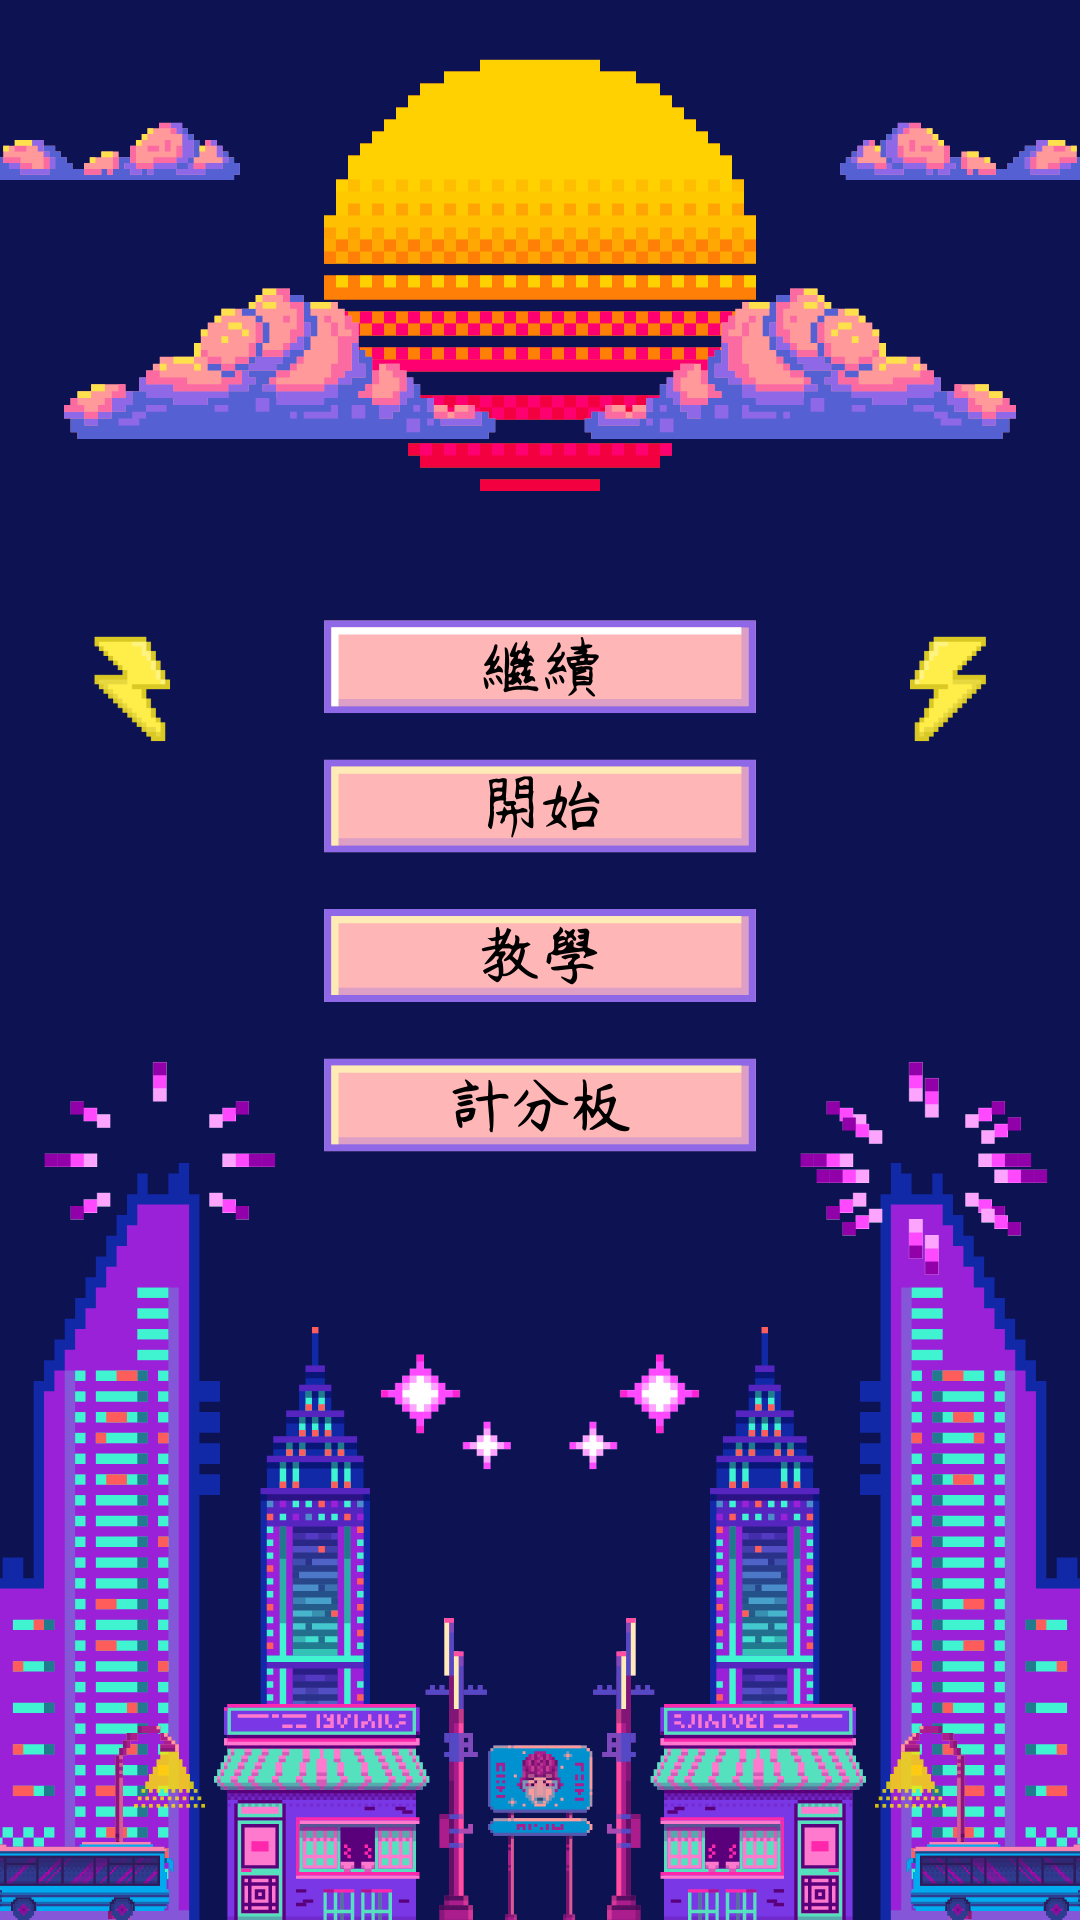
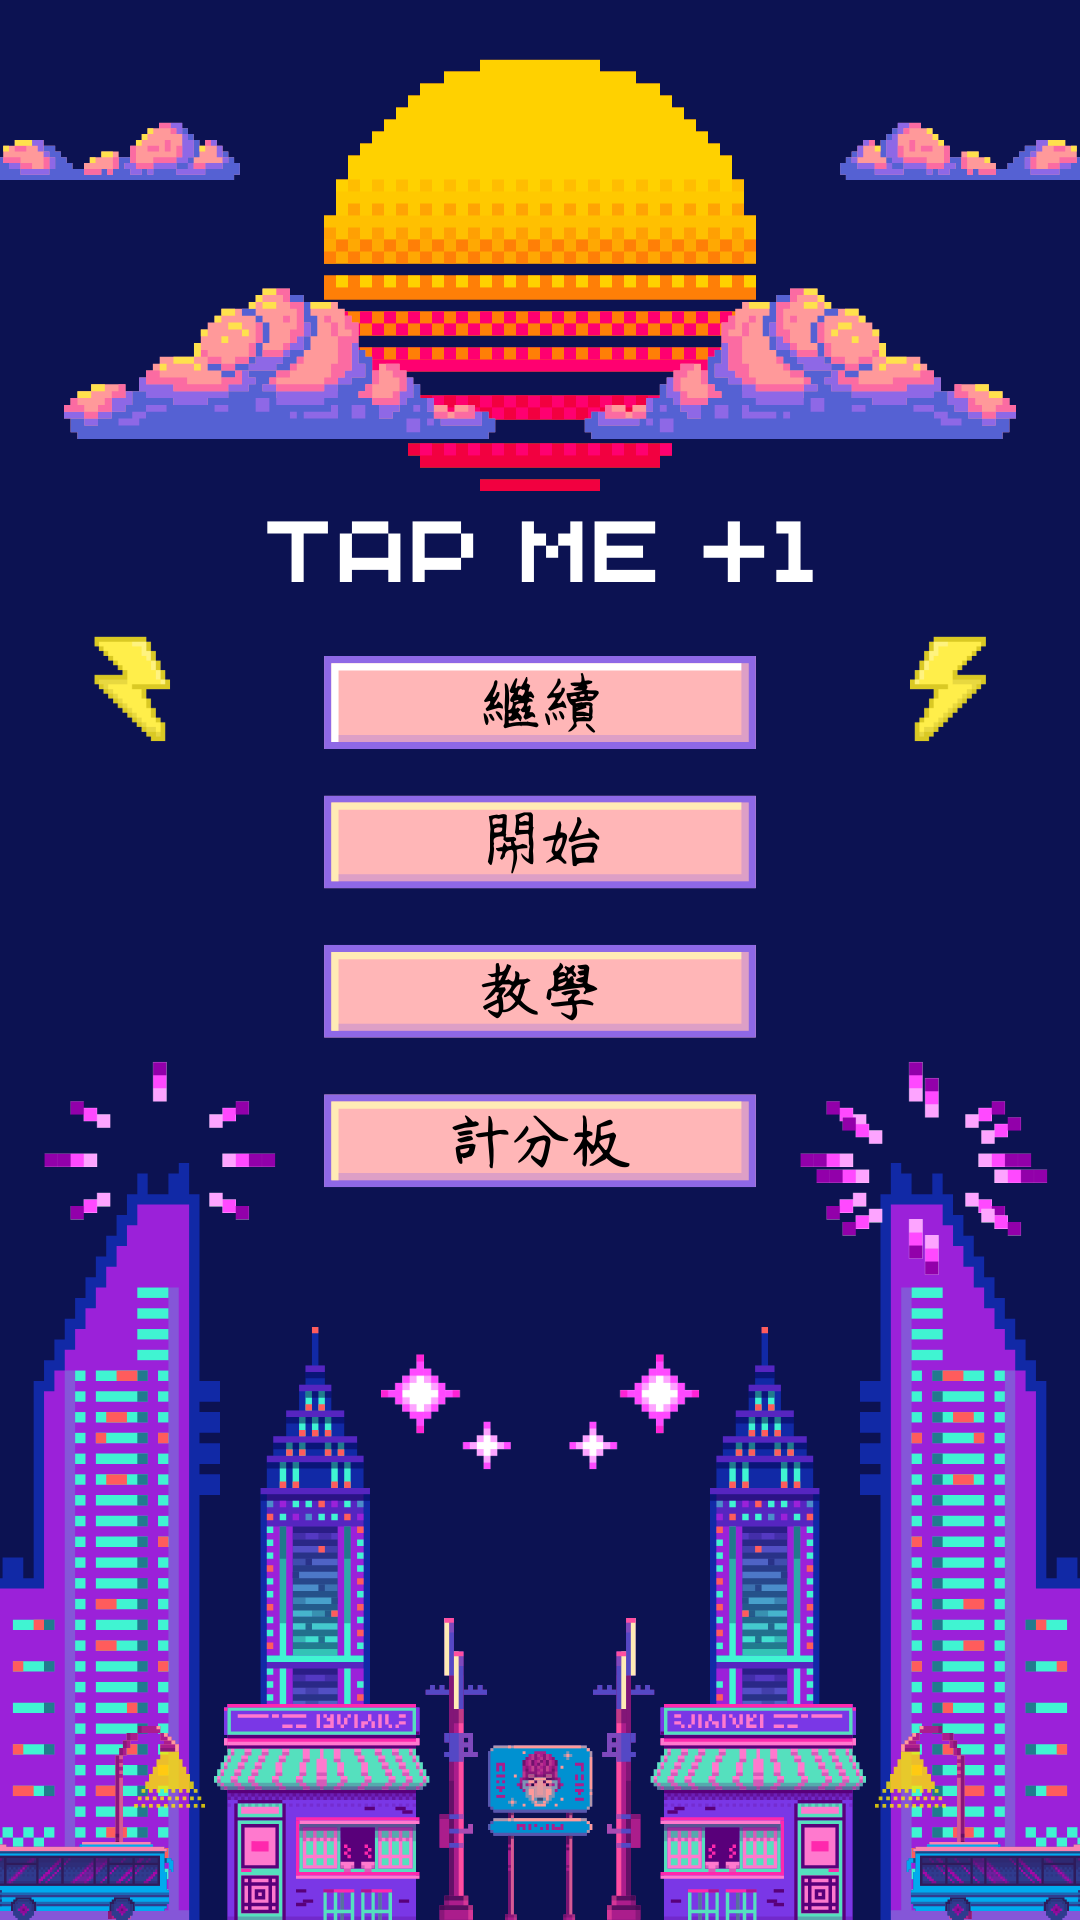
beautify menu page

Changed region(s): [[0.2444, 0.25, 0.7639, 0.625]]

diff --git a/src/TapMePlusOne/Menu.java b/src/TapMePlusOne/Menu.java
@@ -33,9 +33,9 @@ public class Menu {
         menuPane.getChildren().add(backgroundImageView);
         // Start button
         Button startBtn = new Button("");
-        startBtn.setPrefSize(200, 50);
-        startBtn.setLayoutX(250);
-        startBtn.setLayoutY(400);
+        startBtn.setPrefSize(220, 50);
+        startBtn.setLayoutX(200);
+        startBtn.setLayoutY(425);
         //startBtn.setStyle("-fx-background-color: white; -fx-text-fill: black; -fx-font-size: 20pt;");
         startBtn.setStyle("-fx-background-color: transparent;");
         menuPane.getChildren().add(startBtn);
@@ -49,9 +49,9 @@ public class Menu {
             stage.show();
         });
         Button continueBtn = new Button("");
-        continueBtn.setPrefSize(200, 50);
+        continueBtn.setPrefSize(220, 50);
         continueBtn.setLayoutX(200);
-        continueBtn.setLayoutY(325);
+        continueBtn.setLayoutY(350);
         //continueBtn.setStyle("-fx-background-color: white; -fx-text-fill: black; -fx-font-size: 20pt;");
         continueBtn.setStyle("-fx-background-color: transparent;");
         menuPane.getChildren().add(continueBtn);
@@ -65,9 +65,9 @@ public class Menu {
         });
         // Help button
         Button helpBtn = new Button("");
-        helpBtn.setPrefSize(200, 50);
+        helpBtn.setPrefSize(220, 50);
         helpBtn.setLayoutX(200);
-        helpBtn.setLayoutY(475);
+        helpBtn.setLayoutY(500);
         //helpBtn.setStyle("-fx-background-color: white; -fx-text-fill: black; -fx-font-size: 20pt;");
         helpBtn.setStyle("-fx-background-color: transparent;");
         menuPane.getChildren().add(helpBtn);
@@ -82,9 +82,9 @@ public class Menu {
         Button boardBtn = new Button("");
         //boardBtn.setStyle("-fx-background-color: white; -fx-text-fill: black; -fx-font-size: 14pt;");
         boardBtn.setStyle("-fx-background-color: transparent;");
-        boardBtn.setPrefSize(200, 50);
+        boardBtn.setPrefSize(220, 50);
         boardBtn.setLayoutX(200);
-        boardBtn.setLayoutY(550);
+        boardBtn.setLayoutY(575);
         menuPane.getChildren().add(boardBtn);
         boardBtn.setOnAction(event -> {
         	try {

diff --git a/src/TapMePlusOne/Player.java b/src/TapMePlusOne/Player.java
@@ -41,7 +41,13 @@ public class Player {
 	}
 	public Scene createPlayer() {
 		Pane pane = new Pane();
-        pane.setStyle("-fx-background-image: url('file:resources/user.png');-fx-background-size: cover;");
+
+        Image backgroundImage = new Image("file:resources/user.png");
+        ImageView backgroundImageView = new ImageView(backgroundImage);
+        backgroundImageView.setFitWidth(600);
+        backgroundImageView.setFitHeight(1024);
+        pane.getChildren().add(backgroundImageView);
+        //pane.setStyle("-fx-background-image: url('file:resources/user.png');-fx-background-size: cover;");
 
         double screenWidth = Screen.getPrimary().getVisualBounds().getWidth();
         double halfWidth = screenWidth / 7;
